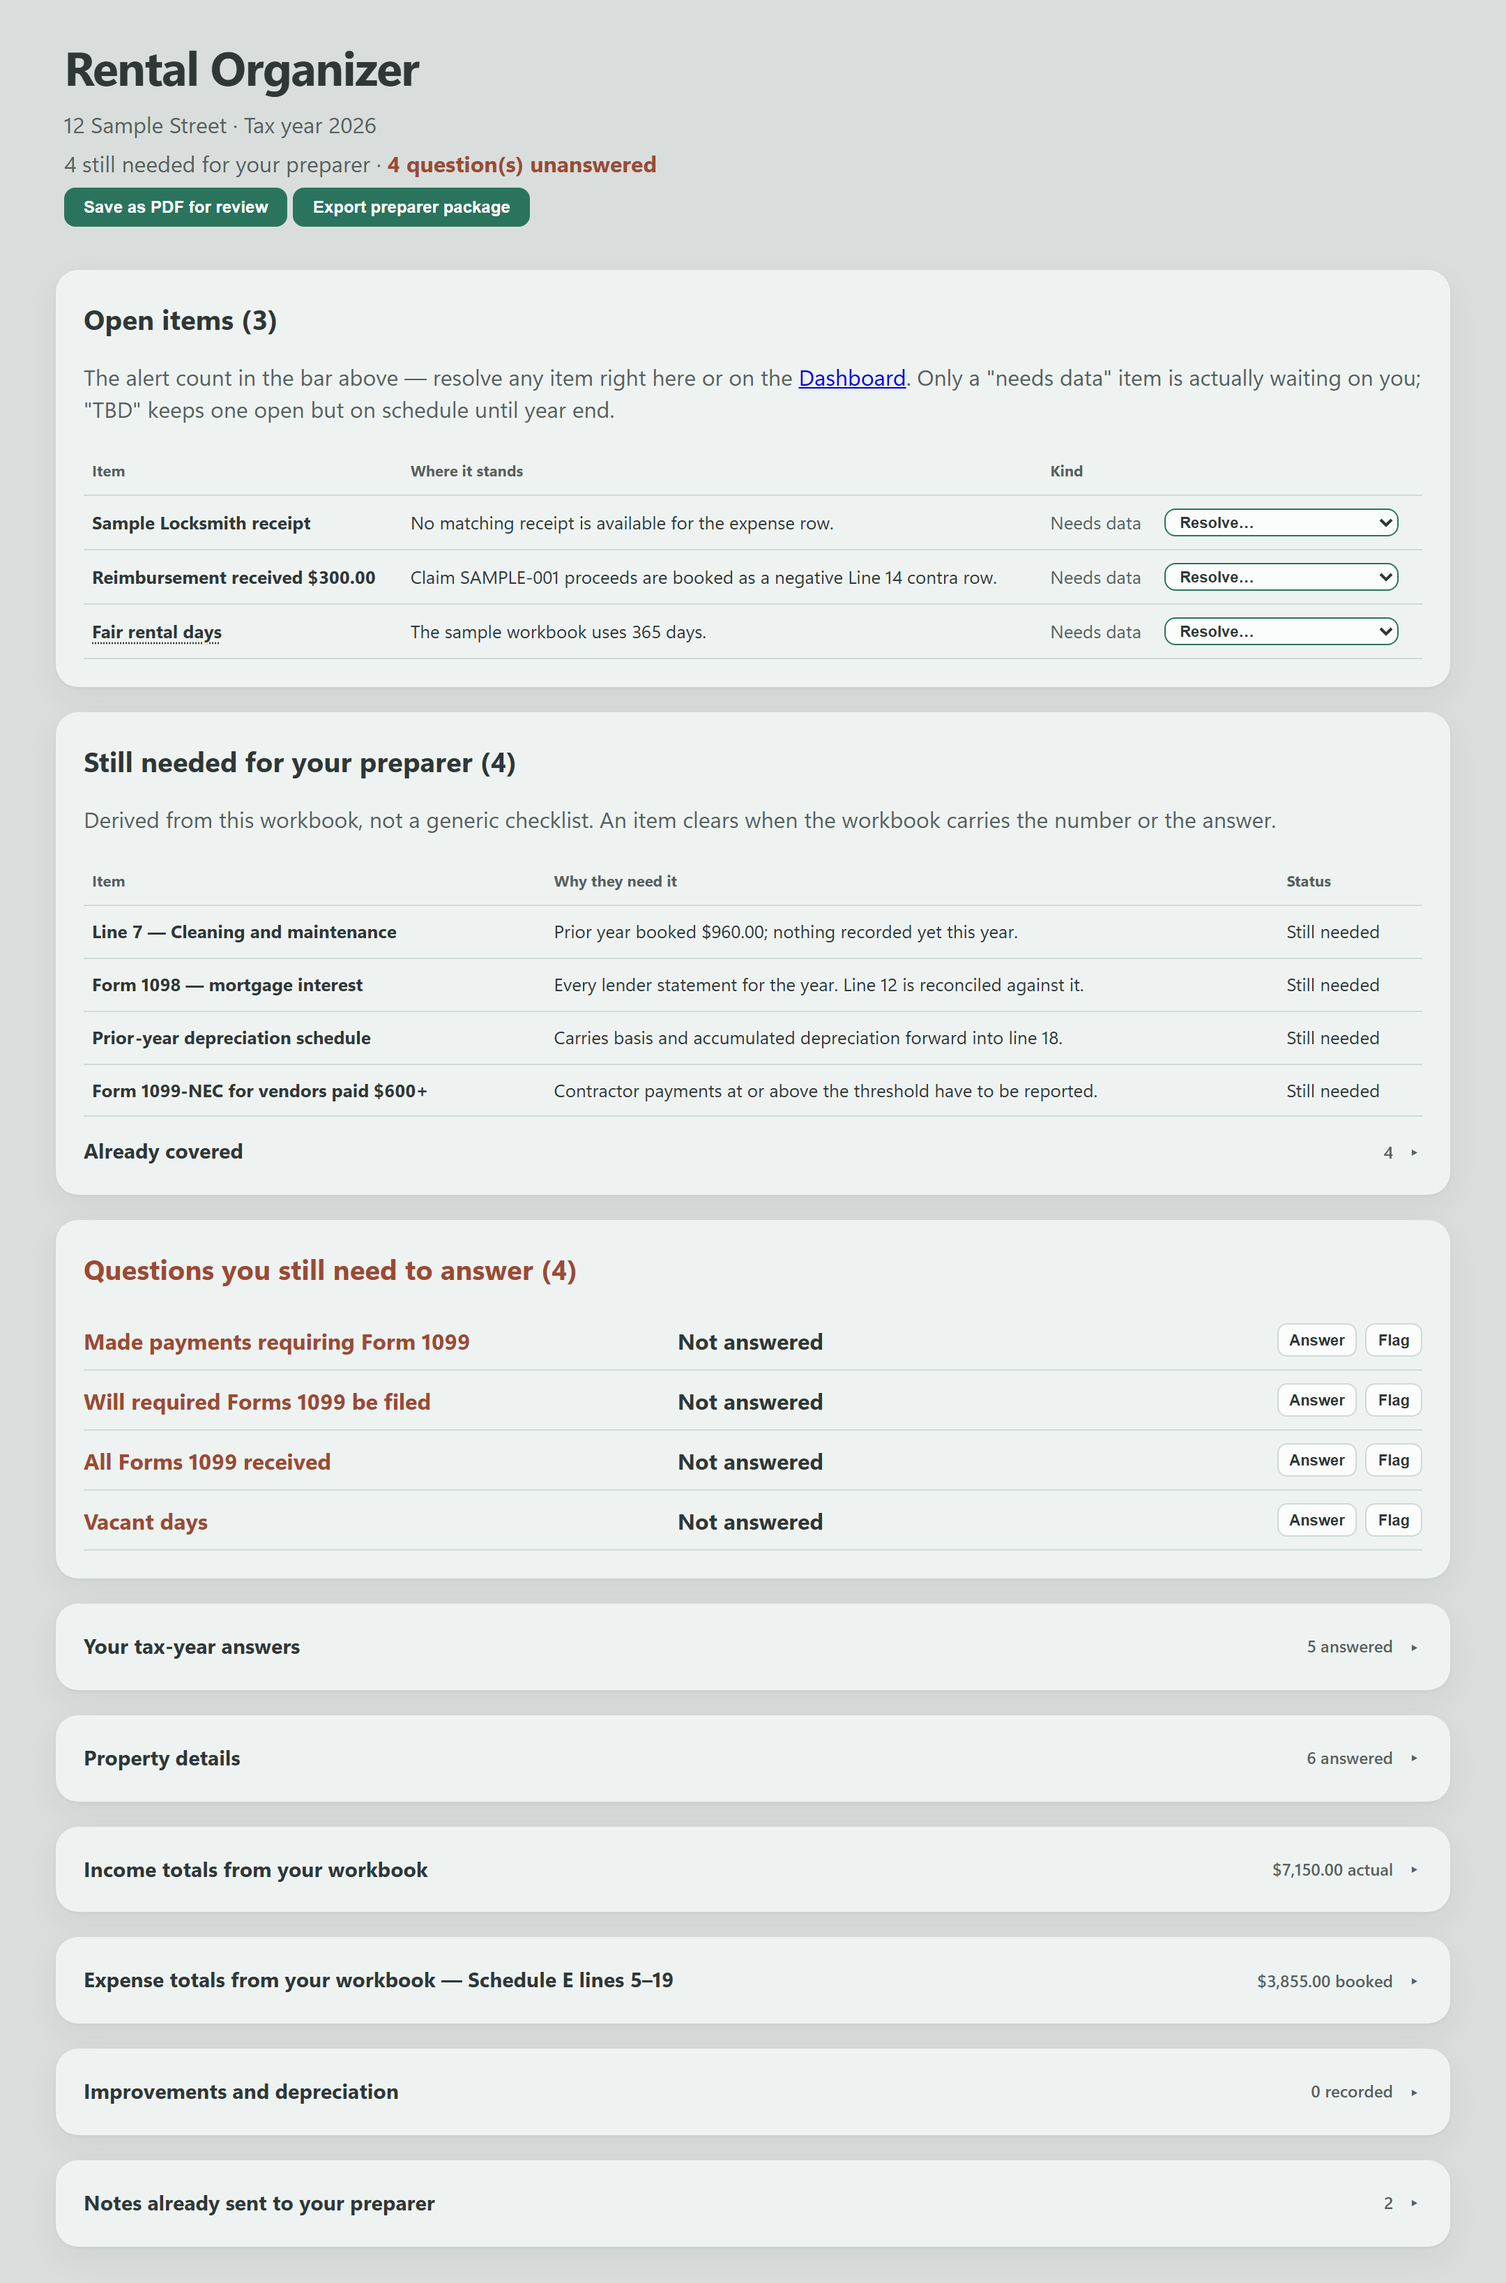
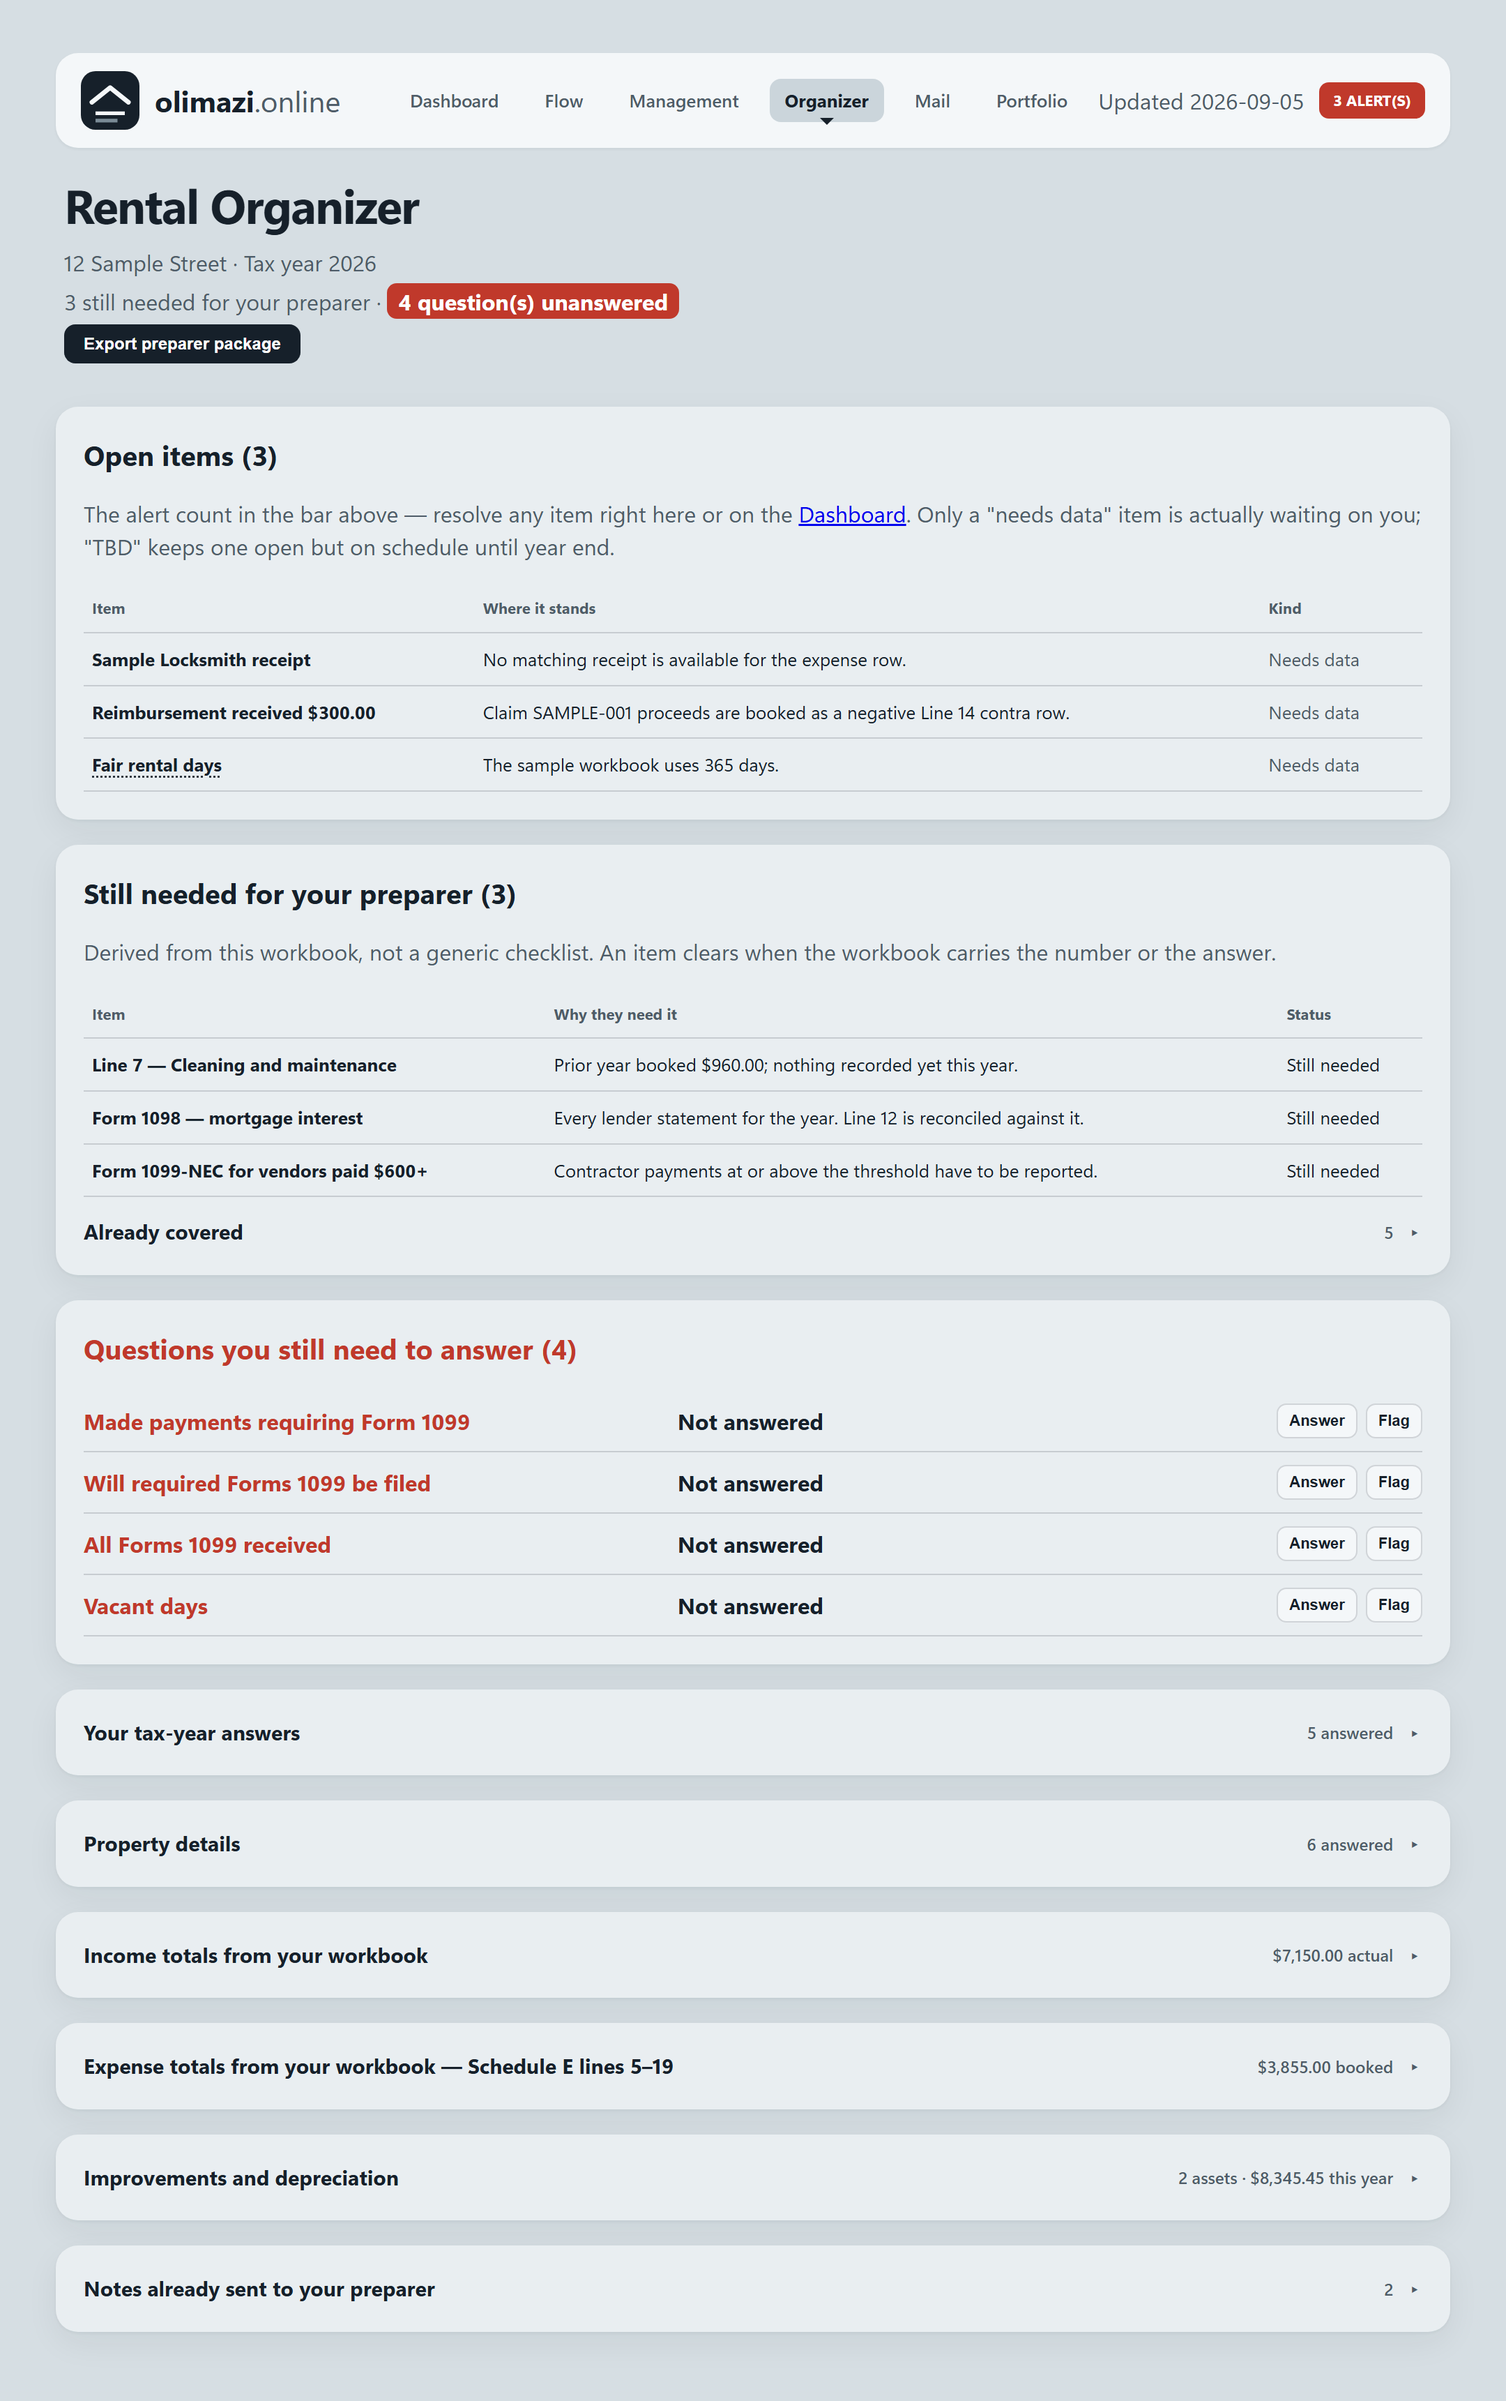
site: re-shoot the Rental Manager screenshots from the committed fixture
The three live screenshots were shot 2026-08-19 and showed a four-tab app with
sample data. The app has had six tabs since 2026-09-05 (Mail 09-01, Assets and
depreciation 09-05, second property / Portfolio / Form 8825 09-05), and the
print button was replaced by "Export preparer package" the same day. Visitors
were being shown a product two tabs behind.

Re-shot from fixtures/sample-property/*.html at commit 34aa77b in
olimazi-tracker, not from the live server: the live server carries the real
property, the real Schedule E figures and the real policy, none of which
belongs on a public page. The four source pages were scanned for the real name,
address and machine paths before the images were copied in.

- rm-dashboard.png, rm-management.png, rm-organizer.png replaced
- rm-flow.png added, with a fourth Flow tile in the shotgrid on index.html and
  vault.html
- width/height attributes corrected to the new pixel heights

Changed region(s): [[0.031, 0.0, 0.9616, 0.6856], [0.031, 0.7168, 0.9616, 0.9973]]

diff --git a/index.html b/index.html
@@ -572,7 +572,7 @@ footer .av{display:block;width:30px;height:30px;flex:0 0 auto;margin:0 -6px 0 -2
         <div class="foot"><p data-c="Method Body">Designed and made in the US. Around 50% margins. Wound down because it could not scale on a cash basis.</p><span class="u" data-c="Method CTA">Open &rarr;</span></div>
       </button>
       <button class="card next rv" type="button" data-pane="rental" aria-label="Open Rental Manager" style="transition-delay:.08s">
-        <div class="ph"><img class="top" src="assets/rm-dashboard.png" alt="Rental Manager &mdash; the dashboard, Schedule E bottom line beside the open items" width="2160" height="5873"><div class="on"><h3>Rental Manager <small style="display:inline;font:400 14px/1 var(--body)">Sch.&nbsp;E</small></h3><small><i class="dot"></i>Current · first Olimazi build · <b style="color:var(--ox);font-weight:700">testers wanted</b></small></div></div>
+        <div class="ph"><img class="top" src="assets/rm-dashboard.png" alt="Rental Manager &mdash; the dashboard, Schedule E bottom line beside the open items" width="2160" height="6406"><div class="on"><h3>Rental Manager <small style="display:inline;font:400 14px/1 var(--body)">Sch.&nbsp;E</small></h3><small><i class="dot"></i>Current · first Olimazi build · <b style="color:var(--ox);font-weight:700">testers wanted</b></small></div></div>
         <div class="foot"><p data-c="Rental Body">A workbook you own. Local files, deterministic math, open items visible. Business Manager (Sch. C) is next.</p><span class="u" data-c="Rental CTA">Open &rarr;</span></div>
       </button>
     </div>
@@ -753,9 +753,10 @@ footer .av{display:block;width:30px;height:30px;flex:0 0 auto;margin:0 -6px 0 -2
     <p class="note"><b>Rental Manager (Sch. E)</b> is a local-file organizer shaped by business-tax work and active rental-property management: portable records, deterministic math, and open items kept visible.</p>
     <p>The spreadsheet stays the source of truth. The manager reads it, reconciles every Schedule E line, and shows the bottom line with every gap it still needs answered. Nothing leaves the machine.</p>
     <div class="shotgrid">
-      <button type="button" class="shot" data-view="assets/rm-dashboard.png" data-title="Dashboard" data-sub="Rental Manager (Sch. E)"><span class="frame"><img src="assets/rm-dashboard.png" alt="Rental Manager dashboard — the Schedule E bottom line beside the open items" width="2160" height="5873"></span><span class="cap"><b>Dashboard.</b> The workbook's front page, sample property. Every Schedule E line beside the gaps it is still waiting on.</span></button>
-      <button type="button" class="shot" data-view="assets/rm-organizer.png" data-title="Organizer" data-sub="Rental Manager (Sch. E)"><span class="frame"><img src="assets/rm-organizer.png" alt="Rental Organizer — addresses, contacts and filing status to confirm" width="2160" height="3273"></span><span class="cap"><b>Organizer.</b> A trust layer showing what the workbook believes about addresses, contacts and filing status, so the owner can confirm it before trusting the numbers. Built in the spirit of a CPA client organizer.</span></button>
-      <button type="button" class="shot" data-view="assets/rm-management.png" data-title="Management" data-sub="Rental Manager (Sch. E)"><span class="frame"><img src="assets/rm-management.png" alt="Property operations — tenant issues, vendors and documents with expiry warnings" width="2160" height="3810"></span><span class="cap"><b>Management.</b> Tenant issues, vendors and documents with expiry warnings. Day-to-day work kept next to the books instead of in a separate app.</span></button>
+      <button type="button" class="shot" data-view="assets/rm-dashboard.png" data-title="Dashboard" data-sub="Rental Manager (Sch. E)"><span class="frame"><img src="assets/rm-dashboard.png" alt="Rental Manager dashboard — the Schedule E bottom line beside the open items" width="2160" height="6406"></span><span class="cap"><b>Dashboard.</b> The workbook's front page, sample property. Every Schedule E line beside the gaps it is still waiting on.</span></button>
+      <button type="button" class="shot" data-view="assets/rm-organizer.png" data-title="Organizer" data-sub="Rental Manager (Sch. E)"><span class="frame"><img src="assets/rm-organizer.png" alt="Rental Organizer — addresses, contacts and filing status to confirm" width="2160" height="3442"></span><span class="cap"><b>Organizer.</b> A trust layer showing what the workbook believes about addresses, contacts and filing status, so the owner can confirm it before trusting the numbers. Built in the spirit of a CPA client organizer.</span></button>
+      <button type="button" class="shot" data-view="assets/rm-management.png" data-title="Management" data-sub="Rental Manager (Sch. E)"><span class="frame"><img src="assets/rm-management.png" alt="Property operations — tenant issues, vendors and documents with expiry warnings" width="2160" height="4029"></span><span class="cap"><b>Management.</b> Tenant issues, vendors and documents with expiry warnings. Day-to-day work kept next to the books instead of in a separate app.</span></button>
+      <button type="button" class="shot" data-view="assets/rm-flow.png" data-title="Flow" data-sub="Rental Manager (Sch. E)"><span class="frame"><img src="assets/rm-flow.png" alt="Flow — proposed rows waiting to be booked into the ledger" width="2160" height="2423"></span><span class="cap"><b>Flow.</b> Money in and out as the workbook reads it, with proposed rows held back until the owner books them. Nothing is written to the ledger on its own.</span></button>
     </div>
     <div class="typecard">
       <div class="row"><span class="k">Own it</span><span>Local files &middot; portable records &middot; no subscription required</span></div>

diff --git a/vault.html b/vault.html
@@ -660,9 +660,10 @@ footer .av{display:block;width:30px;height:30px;flex:0 0 auto;margin:0 -6px 0 -2
     <p class="note"><b>Rental Manager (Sch. E)</b> is a local-file organizer shaped by business-tax work and active rental-property management: portable records, deterministic math, and open items kept visible.</p>
     <p>The spreadsheet stays the source of truth. The manager reads it, reconciles every Schedule E line, and shows the bottom line with every gap it still needs answered. Nothing leaves the machine.</p>
     <div class="shotgrid">
-      <button type="button" class="shot" data-view="assets/rm-dashboard.png" data-title="Dashboard" data-sub="Rental Manager (Sch. E)"><span class="frame"><img src="assets/rm-dashboard.png" alt="Rental Manager dashboard — the Schedule E bottom line beside the open items" width="2160" height="5873"></span><span class="cap"><b>Dashboard.</b> The workbook's front page, sample property. Every Schedule E line beside the gaps it is still waiting on.</span></button>
-      <button type="button" class="shot" data-view="assets/rm-organizer.png" data-title="Organizer" data-sub="Rental Manager (Sch. E)"><span class="frame"><img src="assets/rm-organizer.png" alt="Rental Organizer — addresses, contacts and filing status to confirm" width="2160" height="3273"></span><span class="cap"><b>Organizer.</b> A trust layer showing what the workbook believes about addresses, contacts and filing status, so the owner can confirm it before trusting the numbers. Built in the spirit of a CPA client organizer.</span></button>
-      <button type="button" class="shot" data-view="assets/rm-management.png" data-title="Management" data-sub="Rental Manager (Sch. E)"><span class="frame"><img src="assets/rm-management.png" alt="Property operations — tenant issues, vendors and documents with expiry warnings" width="2160" height="3810"></span><span class="cap"><b>Management.</b> Tenant issues, vendors and documents with expiry warnings. Day-to-day work kept next to the books instead of in a separate app.</span></button>
+      <button type="button" class="shot" data-view="assets/rm-dashboard.png" data-title="Dashboard" data-sub="Rental Manager (Sch. E)"><span class="frame"><img src="assets/rm-dashboard.png" alt="Rental Manager dashboard — the Schedule E bottom line beside the open items" width="2160" height="6406"></span><span class="cap"><b>Dashboard.</b> The workbook's front page, sample property. Every Schedule E line beside the gaps it is still waiting on.</span></button>
+      <button type="button" class="shot" data-view="assets/rm-organizer.png" data-title="Organizer" data-sub="Rental Manager (Sch. E)"><span class="frame"><img src="assets/rm-organizer.png" alt="Rental Organizer — addresses, contacts and filing status to confirm" width="2160" height="3442"></span><span class="cap"><b>Organizer.</b> A trust layer showing what the workbook believes about addresses, contacts and filing status, so the owner can confirm it before trusting the numbers. Built in the spirit of a CPA client organizer.</span></button>
+      <button type="button" class="shot" data-view="assets/rm-management.png" data-title="Management" data-sub="Rental Manager (Sch. E)"><span class="frame"><img src="assets/rm-management.png" alt="Property operations — tenant issues, vendors and documents with expiry warnings" width="2160" height="4029"></span><span class="cap"><b>Management.</b> Tenant issues, vendors and documents with expiry warnings. Day-to-day work kept next to the books instead of in a separate app.</span></button>
+      <button type="button" class="shot" data-view="assets/rm-flow.png" data-title="Flow" data-sub="Rental Manager (Sch. E)"><span class="frame"><img src="assets/rm-flow.png" alt="Flow — proposed rows waiting to be booked into the ledger" width="2160" height="2423"></span><span class="cap"><b>Flow.</b> Money in and out as the workbook reads it, with proposed rows held back until the owner books them. Nothing is written to the ledger on its own.</span></button>
     </div>
     <div class="typecard">
       <div class="row"><span class="k">Own it</span><span>Local files &middot; portable records &middot; no subscription required</span></div>
